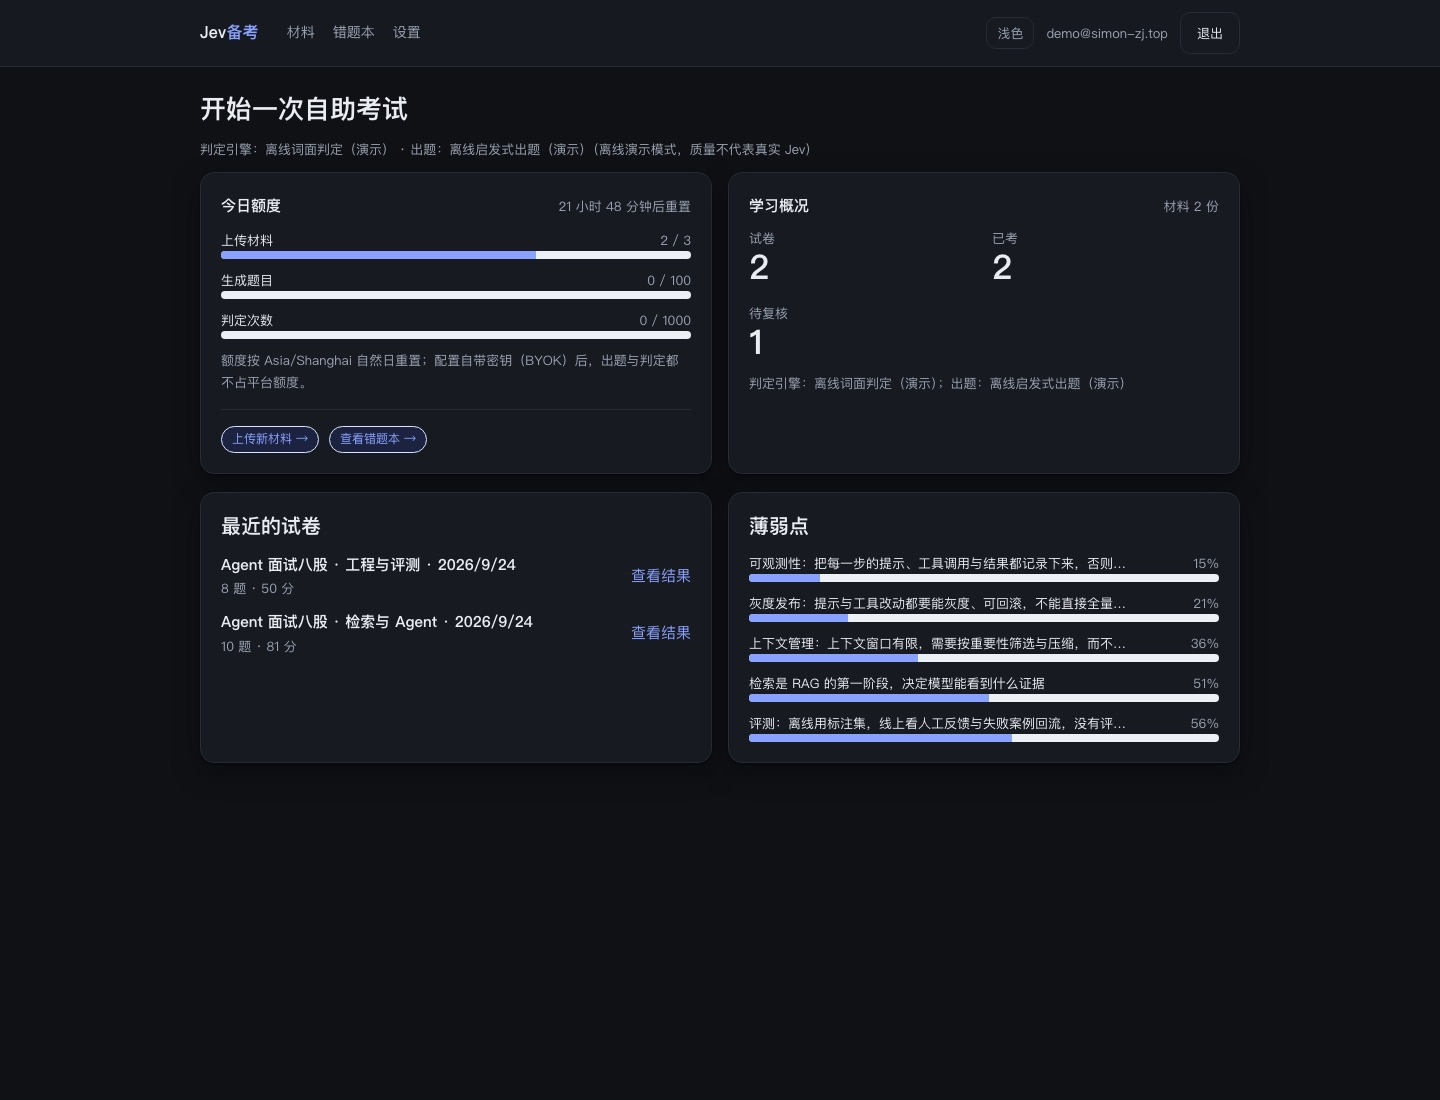
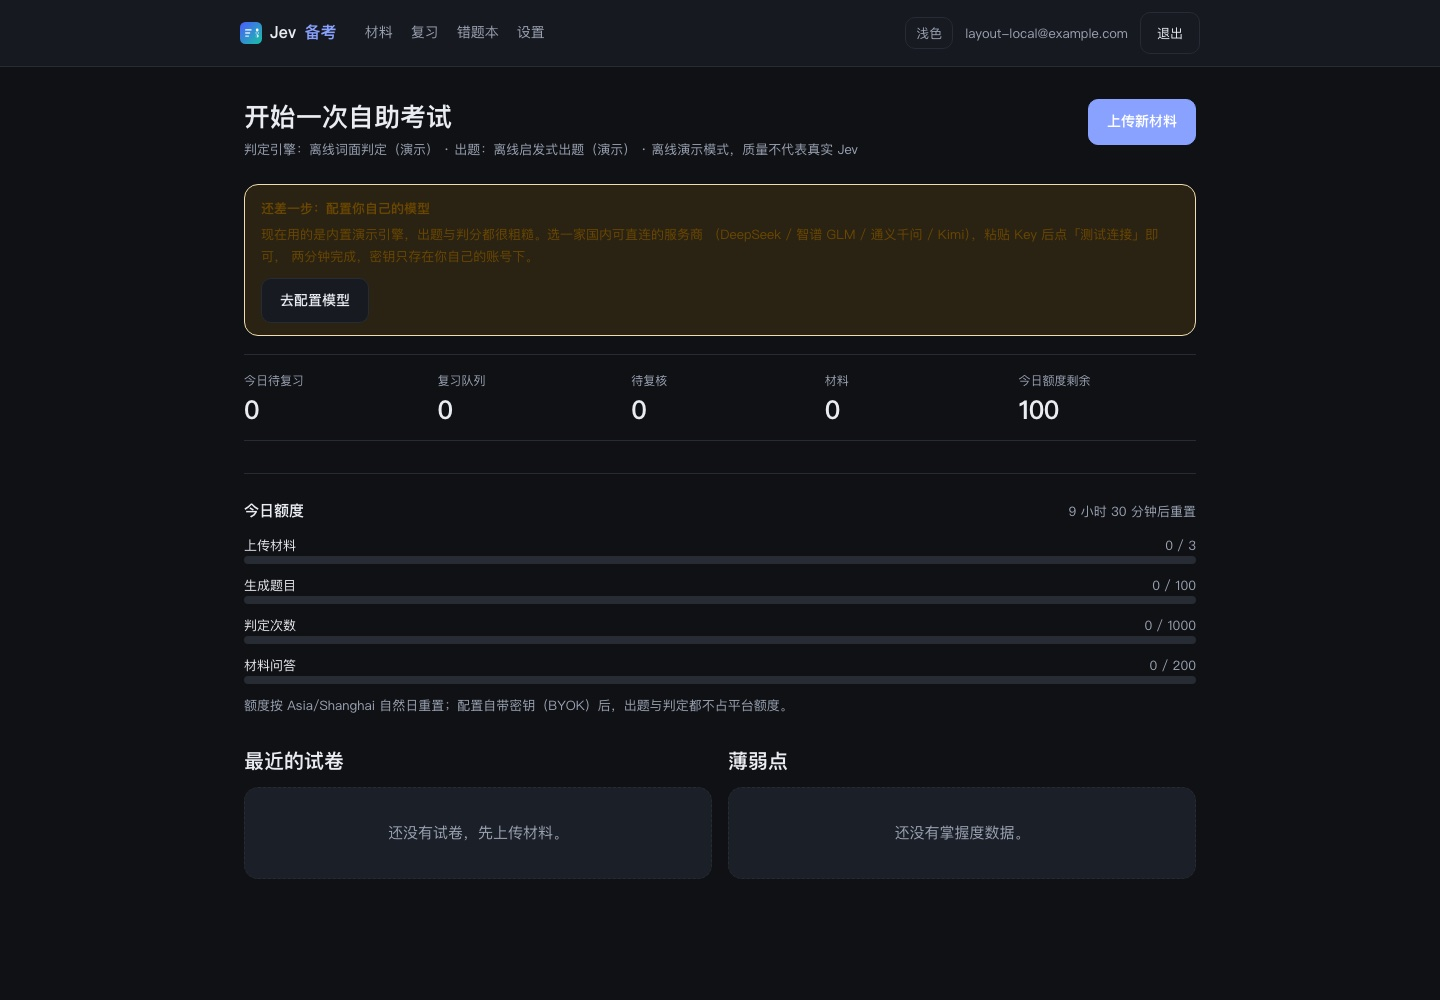
style: 深色模式进度条改用语义色；刷新落地页与仪表盘截图

diff --git a/src/app/globals.css b/src/app/globals.css
@@ -443,7 +443,8 @@ button:disabled {
 .meter {
   height: 8px;
   border-radius: 999px;
-  background: #eceff4;
+  /* 用语义变量：写死浅灰在深色模式下会变成一条刺眼的白条 */
+  background: var(--border);
   overflow: hidden;
 }
 
@@ -457,7 +458,7 @@ button:disabled {
 }
 
 .meter__fill--warn {
-  background: #e8a33d;
+  background: var(--warn);
 }
 
 .meter__fill--err {
